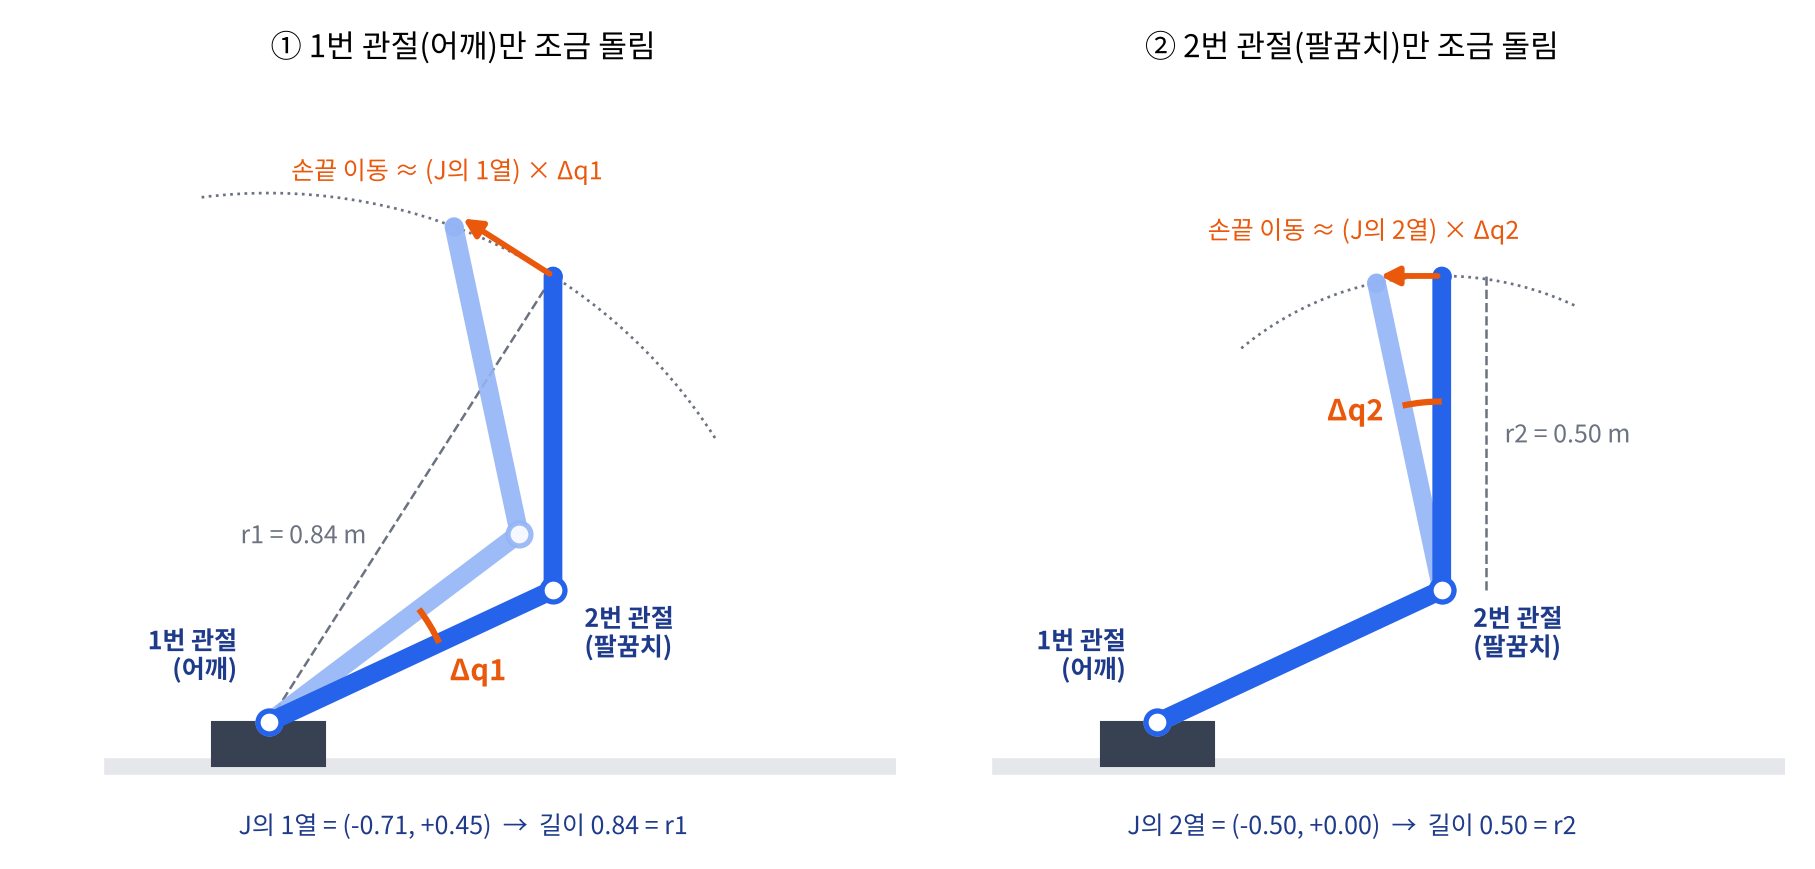
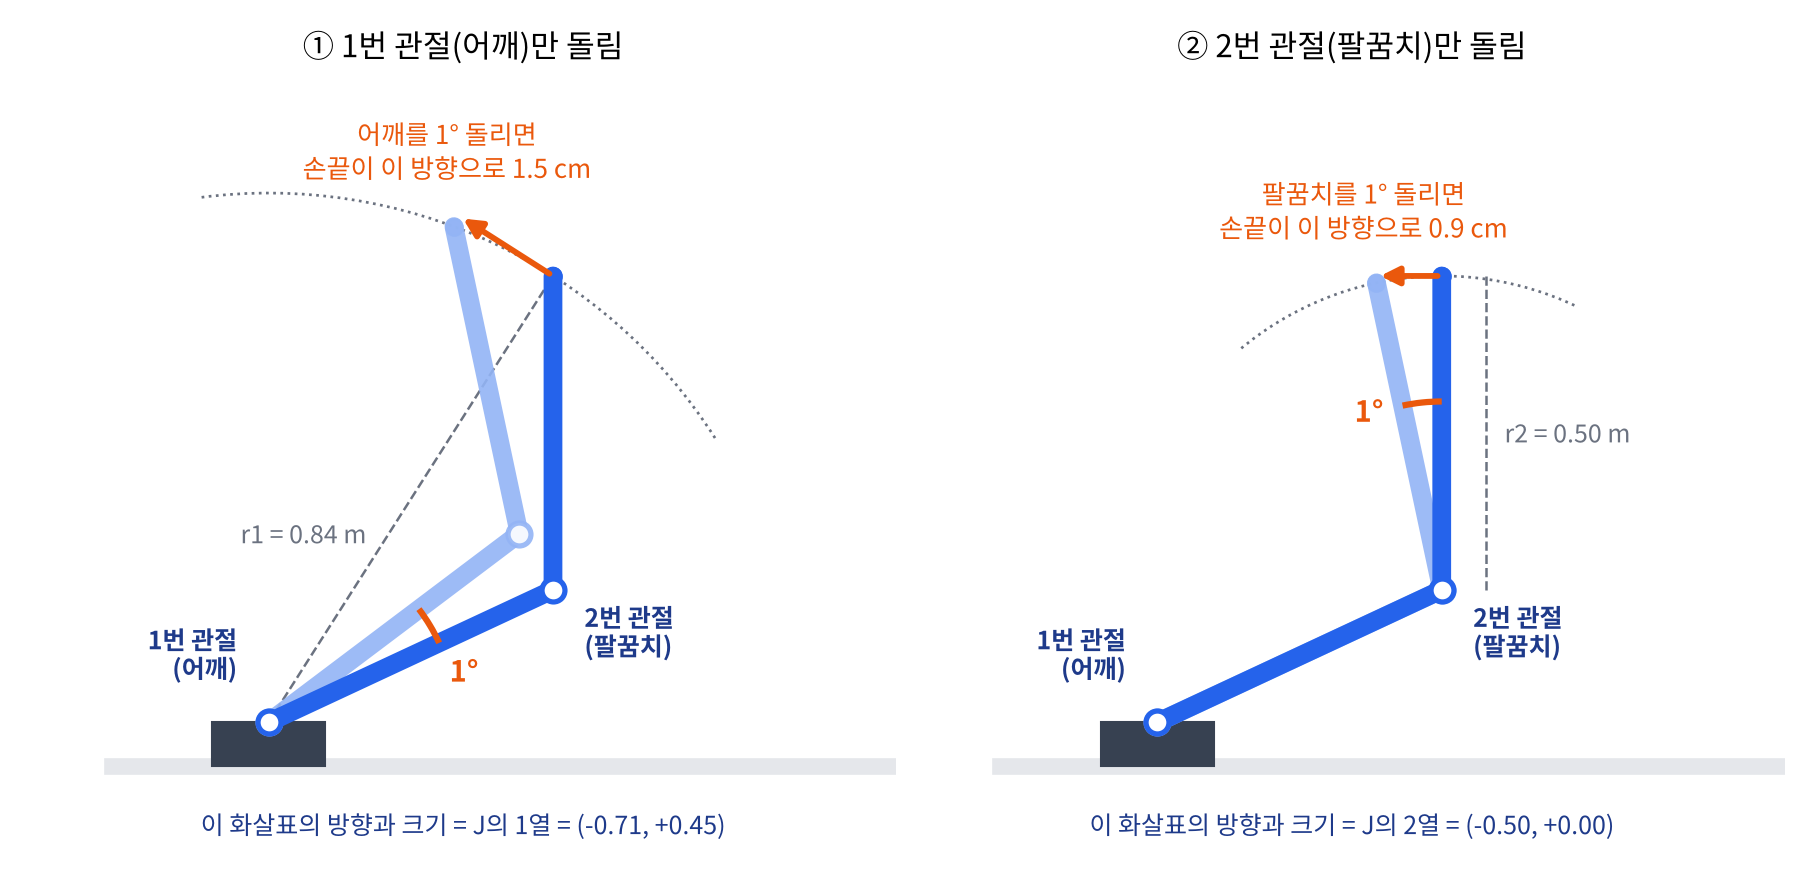
머신비전을 이용한 다관절 로봇 제어 #1: J의 열 설명 뒤로 그림 이동, 그림 라벨을 1°당 이동량으로
Claude-Session: https://claude.ai/code/session_01YMqn5S4VDo5seomf6QEj1c

diff --git a/_posts/2026-10-28-6dof-singularity-7dof-redundancy.md b/_posts/2026-10-28-6dof-singularity-7dof-redundancy.md
@@ -17,9 +17,6 @@ math: true
 
 로봇을 제어하기 위해서는 야코비안 개념을 이해해야 합니다. 야코비안은 관절 각도가 조금 변할 때 손끝이 얼마나 움직이는지를 나타내는 비율(행렬)입니다.
 
-![야코비안의 직관적 의미](/assets/img/posts/jacobian-intuition.png)
-*진한 팔에서 관절 하나만 조금 돌리면 연한 팔이 됩니다. 손끝은 그 관절을 중심으로 한 원의 접선 방향으로, 관절에서 손끝까지 거리 r에 비례해 움직입니다. 이 "방향 × 크기"를 관절마다 한 열씩 모은 표가 야코비안입니다.*
-
 **변수 정의**
 
 - $q = (q_1, \dots, q_n)$ = 관절 각도 ($n$ = 관절 수)
@@ -30,6 +27,11 @@ math: true
 $$
 \dot x = J(q)\,\dot q = \dot q_1 \cdot (\text{1열}) + \dot q_2 \cdot (\text{2열}) + \cdots + \dot q_n \cdot (n\text{열})
 $$
+
+$J$의 $i$열은 **$i$번 관절만 돌렸을 때 손끝이 움직이는 방향과 크기**입니다. 2관절 팔로 보면 바로 보입니다.
+
+![야코비안의 직관적 의미](/assets/img/posts/jacobian-intuition.png)
+*관절 하나만 돌리면 진한 팔이 연한 팔이 됩니다(잘 보이도록 회전을 과장했습니다). 손끝은 그 관절을 중심으로 한 원의 접선 방향으로, 관절에서 멀수록 많이 움직입니다. 이 화살표가 곧 $J$의 한 열입니다.*
 
 로봇을 움직일 때는 반대 방향, 즉 "손끝을 이렇게 움직이고 싶다 → 관절은 얼마나?"를 풉니다.
 
